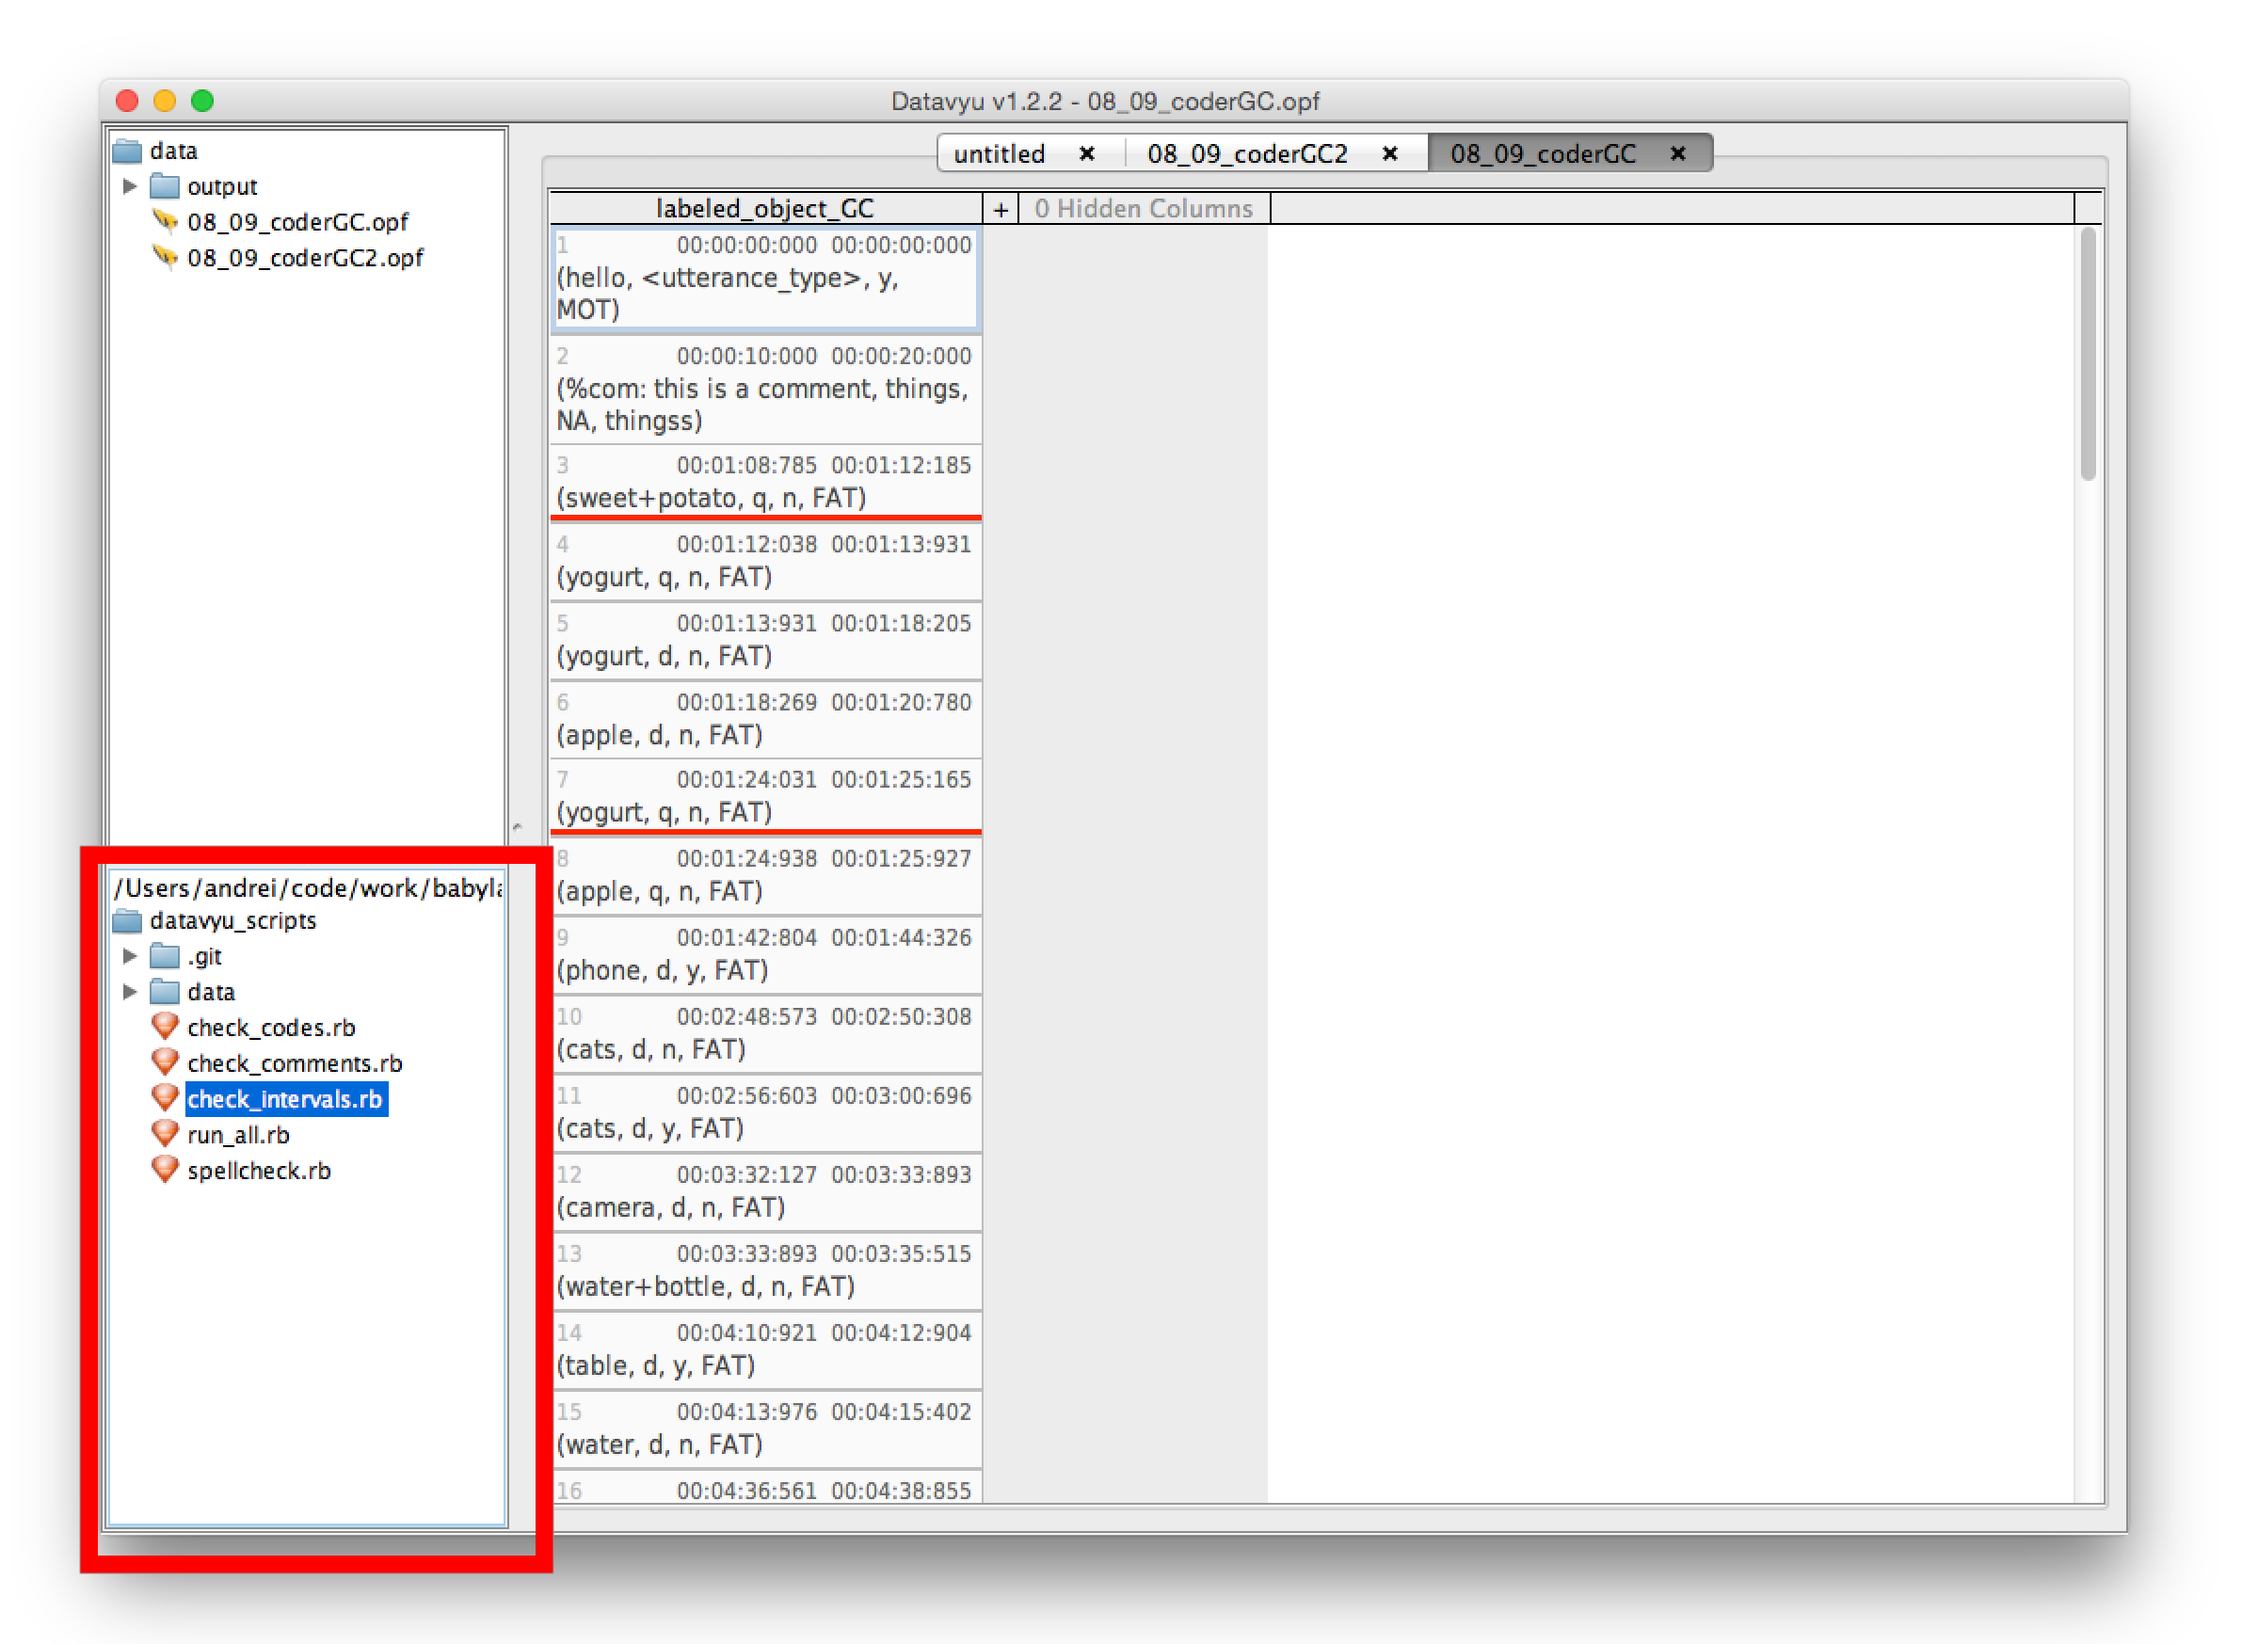
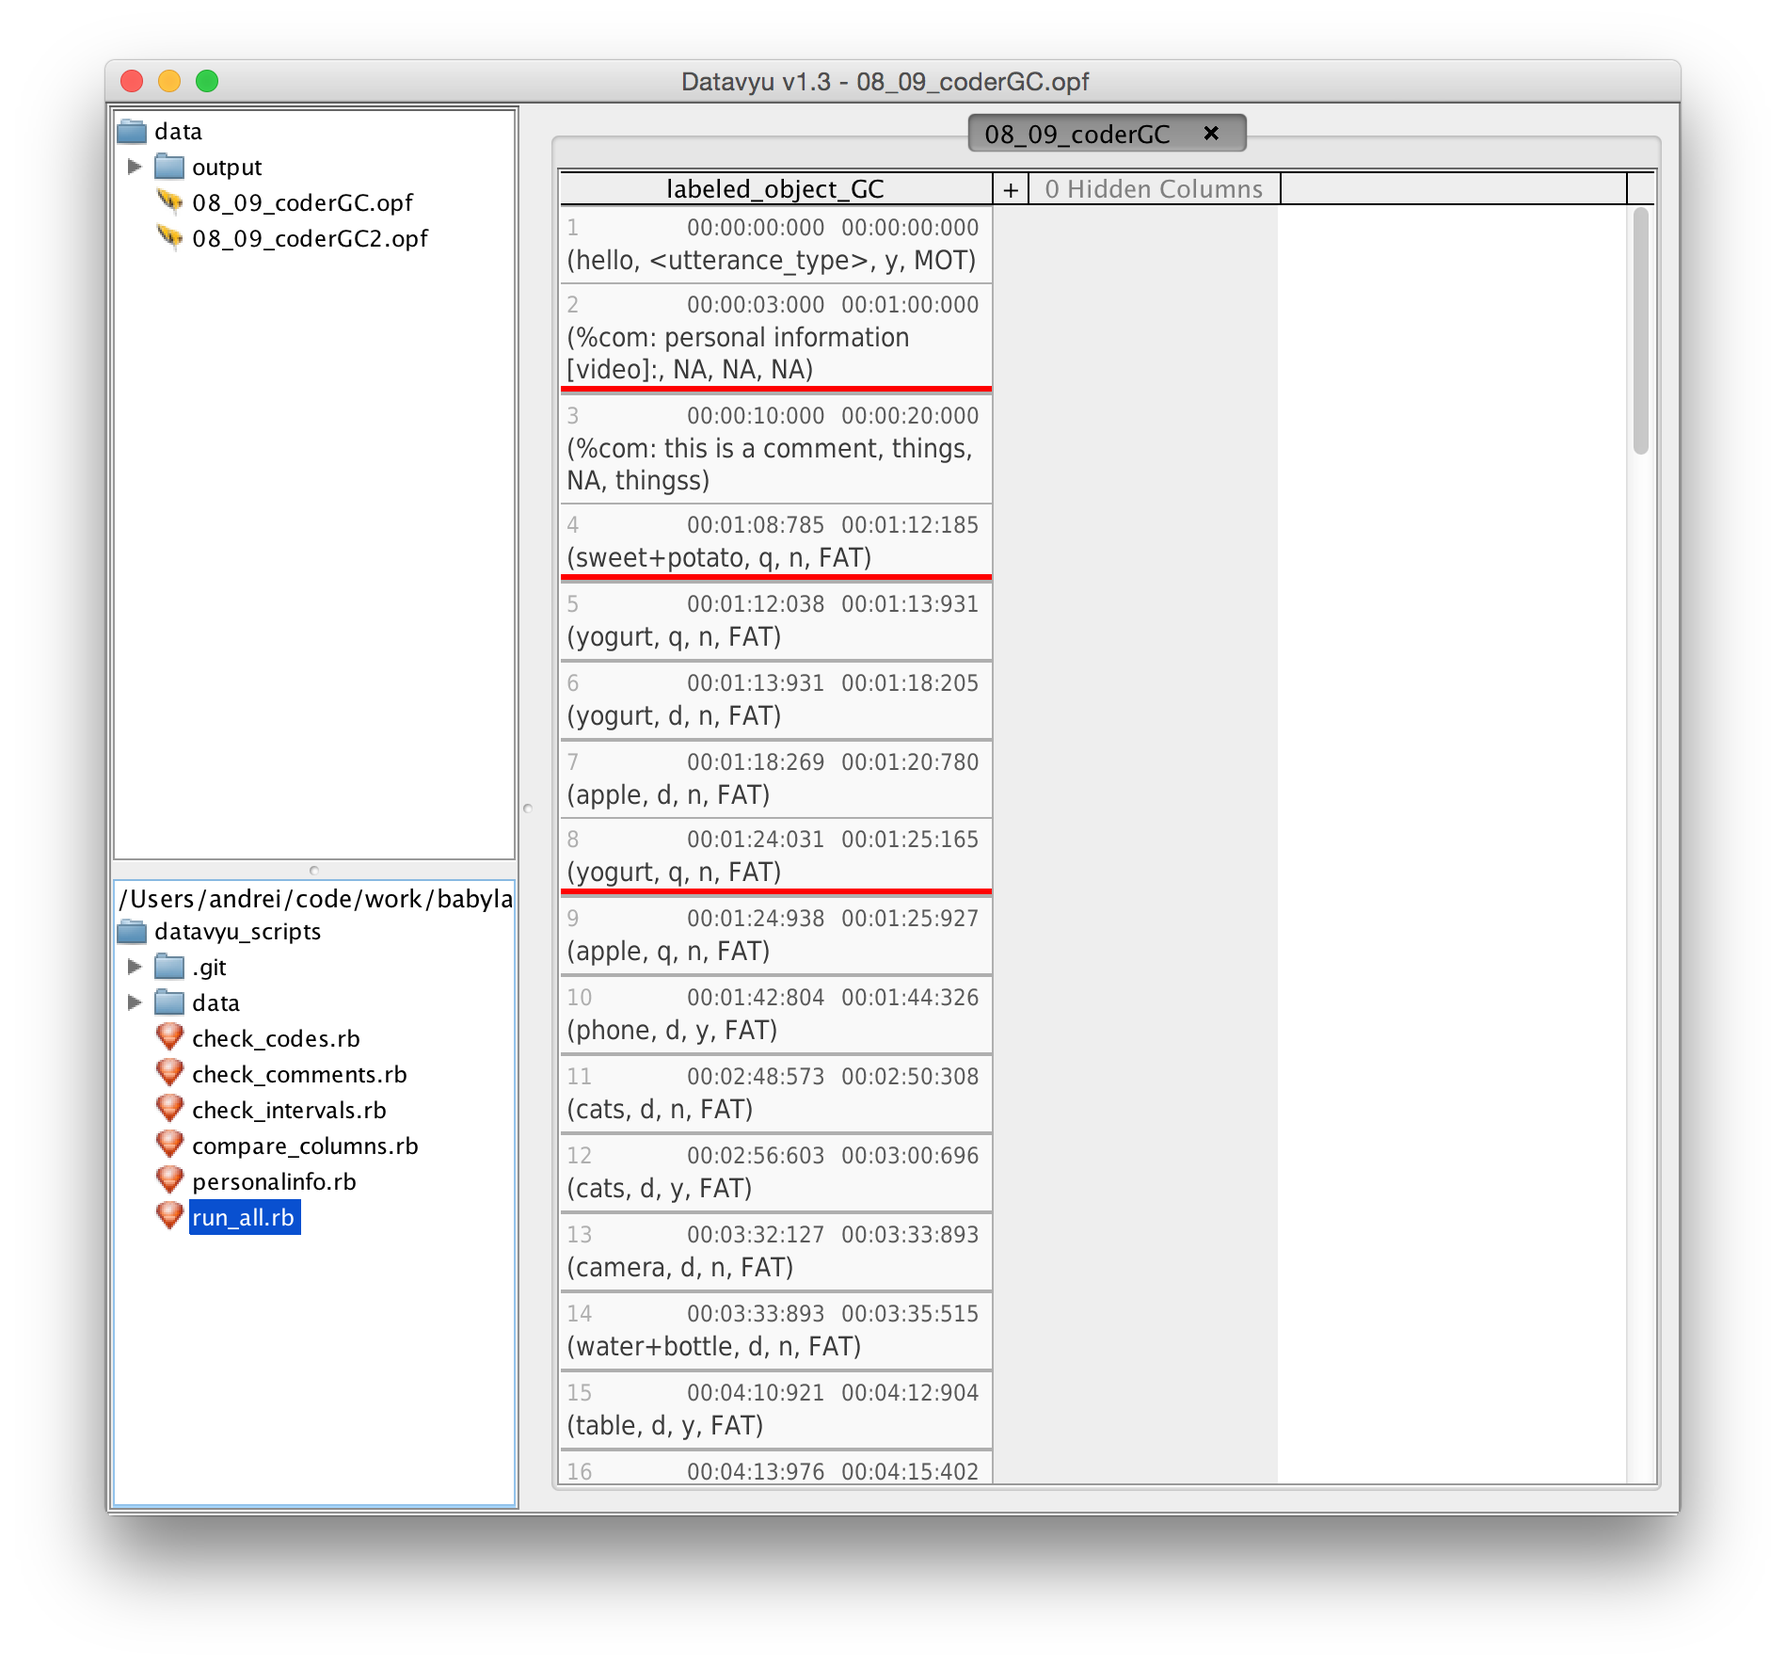
Update the README and insert a new screenshot

Changed region(s): [[0.0311, 0.0309, 0.9636, 0.9891]]

diff --git a/personalinfo.rb b/personalinfo.rb
@@ -23,7 +23,7 @@ begin
 
 	column = "labeled_object_GC"	# set this as necessary
 
-	output = File.expand_path("~/desktop/muteregions.txt") # set this as necessary
+	output = File.expand_path("~/desktop/maskregions.txt") # set this as necessary
 	
 	col = getColumn(column)
 

diff --git a/README.md b/README.md
@@ -1,29 +1,53 @@
 #datavyu scripts
 
-This repository contains a collection of ruby scripts that check to see if Datavyu entries are properly formatted. You should clone this repository to the local machines and select its folder as the destination to look for scripts from within Datavyu (Script -> Set Favorites Folder).
+This repository contains a collection of ruby scripts that check to see if Datavyu entries are properly formatted. One of them, run_all.rb, runs all the checks at the same time. You should usually run this rather than the individual scripts. Clone this repository to the local machines and select its folder as the destination to look for scripts from within Datavyu (Script -> Set Favorites Folder).
 
 ##running
 
-Each script has a variable named "column" which should be adjusted by hand when running. For example (from check_codes.rb):
-
+There's a variable named column at the top of the run_all.rb script which should be adjusted by hand when running. It looks like this:
 
 ```ruby
+require 'Datavyu_API.rb'
+
 begin
 
 	column = "labeled_object_GC"	# set this as necessary
 
-
+	# Check Codes
+	#
 	# checkValidCodes() makes sure that all the codes found in each cell of
 	# the selected column are valid codes for that specific element. The
 	# function is called with the value of the "column" variable defined above.
 	# You need to change this by hand every time you run it on a different column.
 
 	checkValidCodes(column, "",
-				"utterance_type", ["q", "d", "i", "u", "r", "s", "n"],
-				"object_present", ["y", "n"])
+				"utterance_type", ["q", "d", "i", "u", "r", "s", "n", "NA"],
+				"object_present", ["y", "n", "NA"])
+
+
+
 ```
 
-You should run these scripts once you've finished coding. They're separated into 3 distinct programs with multiple checks per script:
+Each individual script also has this variable. For example (from personalinfo.rb):
+
+
+```ruby
+
+begin
+
+	column = "labeled_object_GC"	# set this as necessary
+
+	output = File.expand_path("~/desktop/maskregions.txt") # set this as necessary
+
+	col = getColumn(column)
+
+	# arrays containing millisecond onset/offsets for personal information
+	audio_regions = Array.new
+	video_regions = Array.new
+
+```
+
+You should run these scripts once you've finished coding. Usually this means running run_all.rb rather than each individual script. They're separated into 4 distinct programs with multiple checks per script:
 
 1. check_codes.rb
   * entered values are one of the predefined codes
@@ -34,6 +58,10 @@ You should run these scripts once you've finished coding. They're separated into
   * offset and onset are equal
 3. check_intervals.rb
   * all onsets come prior to offsets
+4. personalinfo.rb
+  * parses out the personal info timestamps and writes them out to a .csv file
+
+
 
 You can run them by double clicking their names in the bottom left corner in Datavyu.
 
